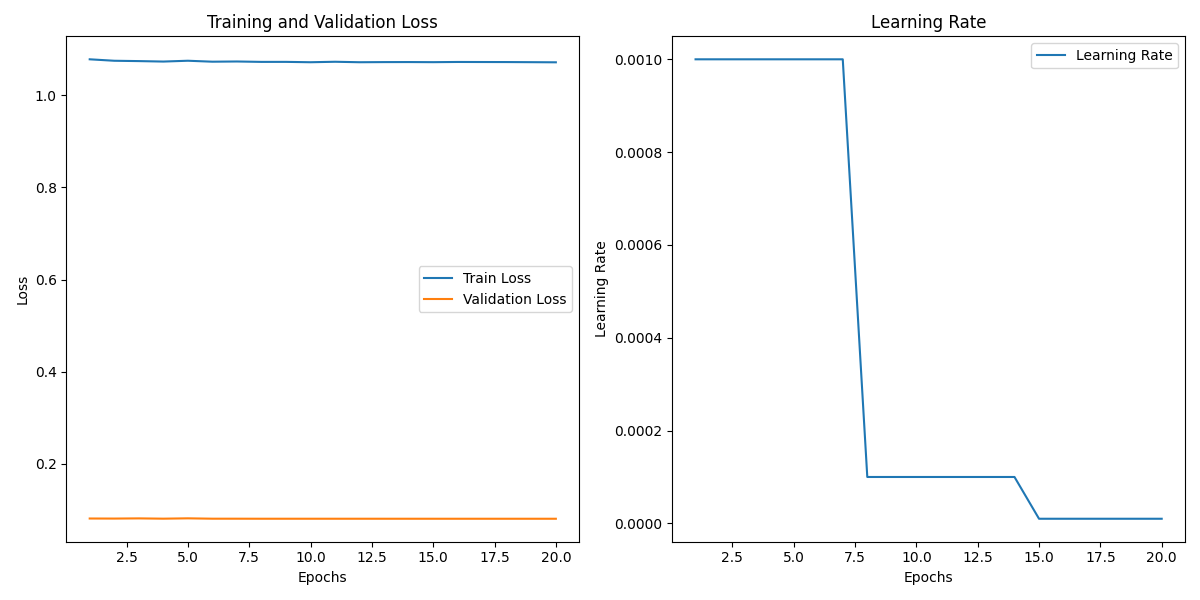
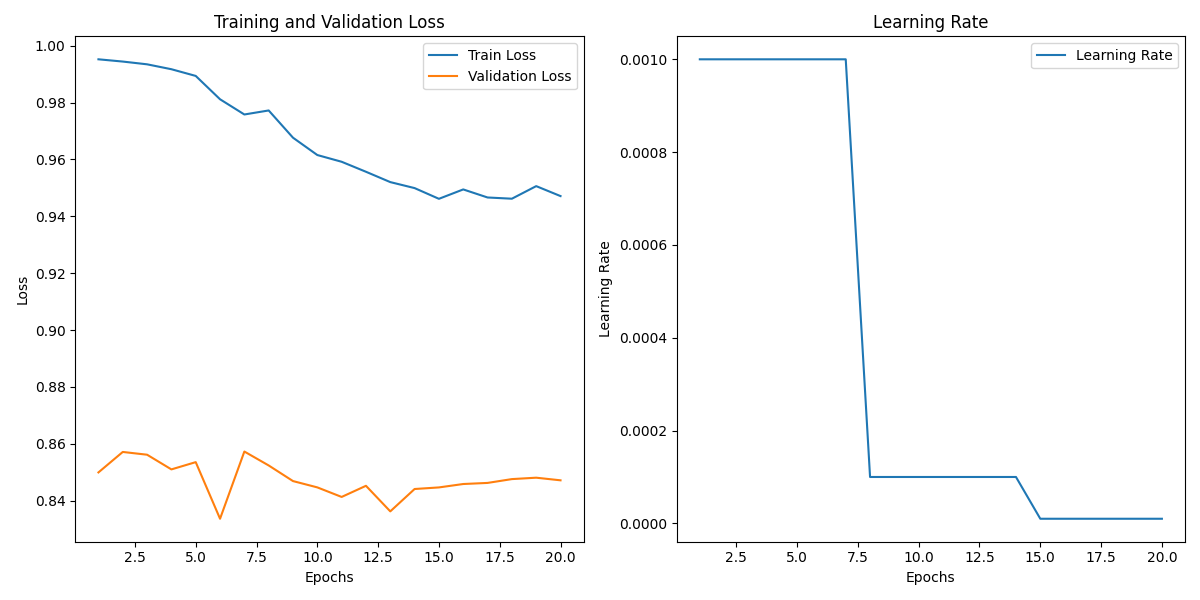
adding feature engineering

diff --git a/main.py b/main.py
@@ -26,22 +26,26 @@ if __name__ == "__main__":
     config = Config()
 
     # Prepare data
-    df, dataset_scaled, train_sc = prepare_data(symbol=config.symbol, 
+    df, dataset_scaled, train_sc, train_cols = prepare_data(symbol=config.symbol, 
                                           start_date=config.start_date, 
                                           end_date=config.end_date,
                                           timeframe=config.timeframe, 
                                           is_filter=False, 
                                           limit= 365 * 12, 
-                                          is_training=True)
+                                          is_training=True,
+                                          backcandles=config.backcandles)
 
     # Prepare training and validation data
-    train_loader, valid_loader = training_loaders(dataset_scaled, config.backcandles)
+    train_loader, valid_loader = training_loaders(
+        dataset_scaled=dataset_scaled, 
+        backcandles=config.backcandles,
+        train_cols=train_cols)
 
     # Initialize model, optimizer, and scheduler
-    lstm_model = LSTMModel(embedding_dim=5, 
-                           hidden_dim = 64,
-                           num_layers=2, 
-                           dropout_prob=0.2)
+    lstm_model = LSTMModel(embedding_dim=len(train_cols), 
+                           hidden_dim = 256,
+                           num_layers = 3, 
+                           dropout_prob = 0.3)
     
     optimizer = Adam(lstm_model.parameters(), lr=0.001, weight_decay=1e-5)
     scheduler = lr_scheduler.StepLR(optimizer, step_size=7, gamma=0.1)
@@ -61,19 +65,21 @@ if __name__ == "__main__":
     plot_training_metrics(history)
 
      # Prepare test data
-    test_df, test_dataset_scaled, _ = prepare_data(symbol=config.symbol, 
+    test_df, test_dataset_scaled, _, _ = prepare_data(symbol=config.symbol, 
                                           start_date=config.test_start_date, 
                                           end_date=config.test_end_date,
                                           timeframe=config.timeframe, 
                                           is_filter=False, 
                                           limit= 4 * 365 * 12, 
                                           is_training=False,
-                                          sc = train_sc)
+                                          sc = train_sc,
+                                          backcandles=config.backcandles)
 
     # Create test loader
     test_loader = create_test_loader(
         dataset_scaled=test_dataset_scaled,
         backcandles=config.backcandles,
+        train_cols=train_cols
     )
 
     # Run simulation
@@ -86,4 +92,5 @@ if __name__ == "__main__":
             sell_threshold = -0.02,
             test_df = test_df,
             backcandles=config.backcandles,
+            train_cols=train_cols
             )

diff --git a/data/data_utils.py b/data/data_utils.py
@@ -8,6 +8,7 @@ import alpaca_trade_api as tradeapi
 import alpaca_trade_api.rest as rest
 from torch.utils.data import TensorDataset, DataLoader
 from sklearn.model_selection import train_test_split
+from data.features_engineering import features_engineering
 
 load_dotenv()
 API_KEY = os.getenv('ALPACA_API_KEY')
@@ -49,25 +50,27 @@ def filter_close(df):
     
     return filtered_df
 
-def prepare_data(symbol, start_date, end_date, timeframe, is_filter=False, limit=4000, is_training=True, sc=None):
+def prepare_data(symbol, start_date, end_date, timeframe, is_filter=False, limit=4000, is_training=True, sc=None, backcandles=60):
     df = get_historical_data(symbol, timeframe, start_date, end_date, limit)
     if is_filter :
             # Filter to keep only open market hours
             df = filter_close(df)
 
     df['close_change'] = df['close'].diff().fillna(0)
-    
+    df, train_cols = features_engineering(df, backcandles)
+    print(train_cols)
+
     # Scale data
     if is_training:
         sc = StandardScaler()
-        sc.fit(df[['open', 'high', 'low', 'close', 'volume', 'close_change']])
-    dataset_scaled = sc.transform(df[['open', 'high', 'low', 'close', 'volume', 'close_change']])
-    dataset_scaled = pd.DataFrame(dataset_scaled, columns=['open', 'high', 'low', 'close', 'volume', 'close_change'], index= df['time'])
+        sc.fit(df[train_cols + ['close_change']])
+    dataset_scaled = sc.transform(df[train_cols + ['close_change']])
+    dataset_scaled = pd.DataFrame(dataset_scaled, columns=train_cols + ['close_change'], index= df['time'])
 
-    return df, dataset_scaled, sc
+    return df, dataset_scaled, sc, train_cols
 
-def training_loaders(dataset_scaled, backcandles, train_ratio=0.94):
-    X_dataset = dataset_scaled[['open', 'high', 'low', 'close', 'volume']]
+def training_loaders(dataset_scaled, backcandles, train_cols, train_ratio=0.94):
+    X_dataset = dataset_scaled[train_cols]
     y_dataset = dataset_scaled[['close_change']].values
 
     # Create sliding window feature set
@@ -91,8 +94,8 @@ def training_loaders(dataset_scaled, backcandles, train_ratio=0.94):
 
     return train_loader, valid_loader
 
-def create_test_loader(dataset_scaled, backcandles):
-    X_dataset = dataset_scaled[['open', 'high', 'low', 'close', 'volume']]
+def create_test_loader(dataset_scaled, backcandles, train_cols):
+    X_dataset = dataset_scaled[train_cols]
     y_dataset = dataset_scaled[['close_change']].values
 
     # Sliding window feature set

diff --git a/data/features_engineering.py b/data/features_engineering.py
@@ -1,0 +1,58 @@
+
+def calculate_rsi(data, window=14):
+        delta = data['close'].diff(1)
+        gain = delta.where(delta > 0, 0)
+        loss = -delta.where(delta < 0, 0)
+
+        avg_gain = gain.rolling(window=window, min_periods=1).mean()
+        avg_loss = loss.rolling(window=window, min_periods=1).mean()
+
+        rs = avg_gain / avg_loss
+        rsi = 100 - (100 / (1 + rs))
+        return rsi
+
+def stochastic_oscillator(data, window=14):
+        data['Lowest Low'] = data['low'].rolling(window=window).min()
+        data['Highest High'] = data['high'].rolling(window=window).max()
+        data['Stochastic'] = 100 * ((data['close'] - data['Lowest Low']) / (data['Highest High'] - data['Lowest Low']))
+        return data['Stochastic']
+
+def features_engineering(df, backcandles) :
+    # 1
+    df['SMA'] = df['close'].rolling(window=backcandles).mean().fillna(0)
+
+    # 2
+    df['EMA'] = df['close'].ewm(span=backcandles, adjust=False).mean()
+
+    # 3
+    df['RSI'] = calculate_rsi(df)
+
+    # 4
+    short_ema = df['close'].ewm(span=12, adjust=False).mean()
+    long_ema = df['close'].ewm(span=26, adjust=False).mean()
+
+    df['MACD'] = short_ema - long_ema
+    df['Signal Line'] = df['MACD'].ewm(span=9, adjust=False).mean()
+
+    # 5
+    df['Upper Band'] = df['SMA'] + 2 * df['close'].rolling(window=20).std()
+    df['Lower Band'] = df['SMA'] - 2 * df['close'].rolling(window=20).std()
+
+    # 6
+    df['Stochastic'] = stochastic_oscillator(df)
+
+    # 7
+    df['High-Low'] = df['high'] - df['low']
+    df['High-close'] = (df['high'] - df['close'].shift()).abs()
+    df['Low-close'] = (df['low'] - df['close'].shift()).abs()
+    true_range = df[['High-Low', 'High-close', 'Low-close']].max(axis=1)
+    df['ATR'] = true_range.rolling(window=14).mean()
+
+    # 8
+    df['VWAP'] = (df['close'] * df['volume']).cumsum() / df['volume'].cumsum()
+
+    df.fillna(0, inplace=True)
+
+    train_cols = [col for col in df.columns if col not in ['time', 'close_change']]
+
+    return df, train_cols

diff --git a/models/evaluate.py b/models/evaluate.py
@@ -39,7 +39,7 @@ def plot_evolutions(timestamps, true_evolutions, predicted_evolutions):
     plt.grid(True)
     plt.savefig('logs/evolutions.png')
 
-def simulate_investment(model, dataloader, capital, shares_owned, scaler, buy_threshold, sell_threshold, test_df, backcandles):
+def simulate_investment(model, dataloader, capital, shares_owned, scaler, buy_threshold, sell_threshold, test_df, backcandles, train_cols):
     model.eval()
     true_evolutions = []
     predicted_evolutions = []
@@ -47,21 +47,23 @@ def simulate_investment(model, dataloader, capital, shares_owned, scaler, buy_th
     portfolio_values = []
     timestamps = []
     initial_capital = capital
-
+    print(test_df)
     bar = tqdm(enumerate(dataloader), total=len(dataloader))
     for step, (features, targets) in bar:
         # Correct the timestamp index by adding the backcandles delay
         timestamps.append(test_df.iloc[step + backcandles, 0])
-        current_price = features[:, -1, 3].numpy().flatten()[0] # Current closing price [fourth column of the last row]
+
+        current_price_index = train_cols.index('close')
+        current_price = features[:, -1, current_price_index].numpy().flatten()[0]
 
         # Predicted and true prices in normalized form
         predicted_evolution_norm = model(features).detach().numpy().flatten()
         true_evolution_norm = targets.numpy().flatten()
 
         # Create dummy arrays to inverse transform
-        dummy_pred = np.zeros((1, 6))
+        dummy_pred = np.zeros((1, len(train_cols) + 1))
         dummy_pred[:, 5] = predicted_evolution_norm
-        dummy_target = np.zeros((1, 6))
+        dummy_target = np.zeros((1, len(train_cols) + 1))
         dummy_target[:, 5] = true_evolution_norm
 
         predicted_evolution = scaler.inverse_transform(dummy_pred)[:, 5][0]
